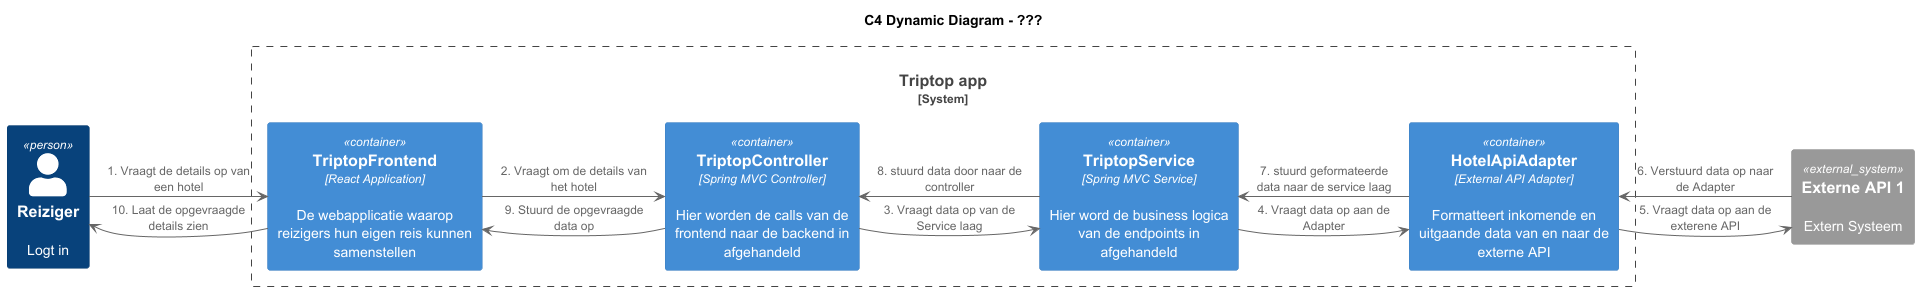
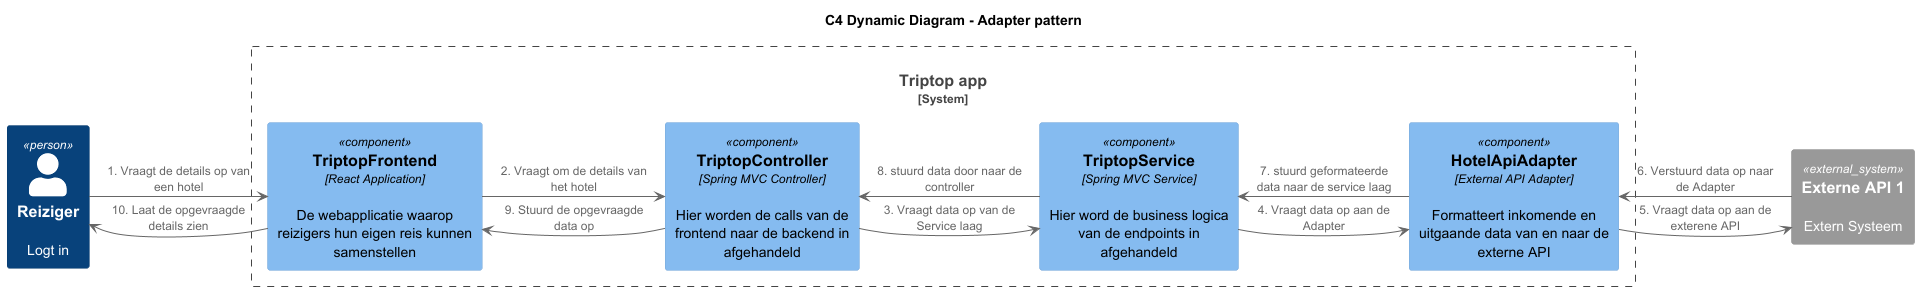
Kleine verandringen in veel diagrammen

diff --git a/software-guidebook/README.md b/software-guidebook/README.md
@@ -115,9 +115,8 @@ Verdere uitleg voor waarom wij voor het "Adapter pattern" hebben gekozen wordt b
 
 Het design principe "Program to an interface" houd in dat de code alleen weet van de interface van een component,
 en niet van de specifieke implementatie ervan.
-Dit houd in dat je niet een implementatie van een object aanroept maar een interface.
-Verdere uitleg voor waarom wij voor het design principe "Program to an interface" hebben gekozen wordt behandeld in
-[ADR-008](#88-adr-008-wij-gaan-het-desing-principe-program-to-an-interface-toepassen)
+Dit houdt in dat je niet een implementatie van een object aanroept maar een interface.
+
 
 ##### Component diagram
 ![Component Diagram Adapter pattern](/opdracht-diagrammen/C4-Diagrammen/ComponentDiagramJamiro.png)
@@ -127,7 +126,7 @@ _Afbeelding 10: Component diagram Adapter pattern._
 Dit dynamische diagram laat zien hoe een de gebruiker de details van een hotel binnen krijgt. 
 Je kan hierin zien hoe de adapter wordt gebruikt en hoe de adapter een rol speelt in deze applicatie. 
 ![Dynamisch Component Diagram Adapter pattern](/opdracht-diagrammen/C4-Diagrammen/DynamischDiagramAdapterJamiro.png)
-_Afbeelding 11: Sequence Diagram Adapter pattern._
+_Afbeelding 11: Dynamisch Diagram Adapter pattern._
 
 ### 7.4. Design & Code
 #### 7.4.1. Hoe zorg je ervoor dat authenticatie en autorisatie consistent worden toegepast bij het communiceren met verschillende externe API's? (Mischa)
@@ -535,20 +534,6 @@ Neutraal:
 - Mogelijk langzamere prestaties door de extra communicatielaag.
 - Meer onderhoud nodig voor de backend code die de communicatie afhandelt.
 - Extra infrastructuur nodig voor de backend, wat kan leiden tot hogere kosten en meer ontwikkeltijd.
-
-### 8.8. ADR-008 Wij gaan het design principe "Program to an interface" toepassen
-#### Status
-Voorgesteld
-
-#### Context
-
-#### Overwogen opties
-
-#### Besluit
-
-#### Consequenties
-
-##### Negatief
 
 
 ## 9. Deployment, Operation and Support
